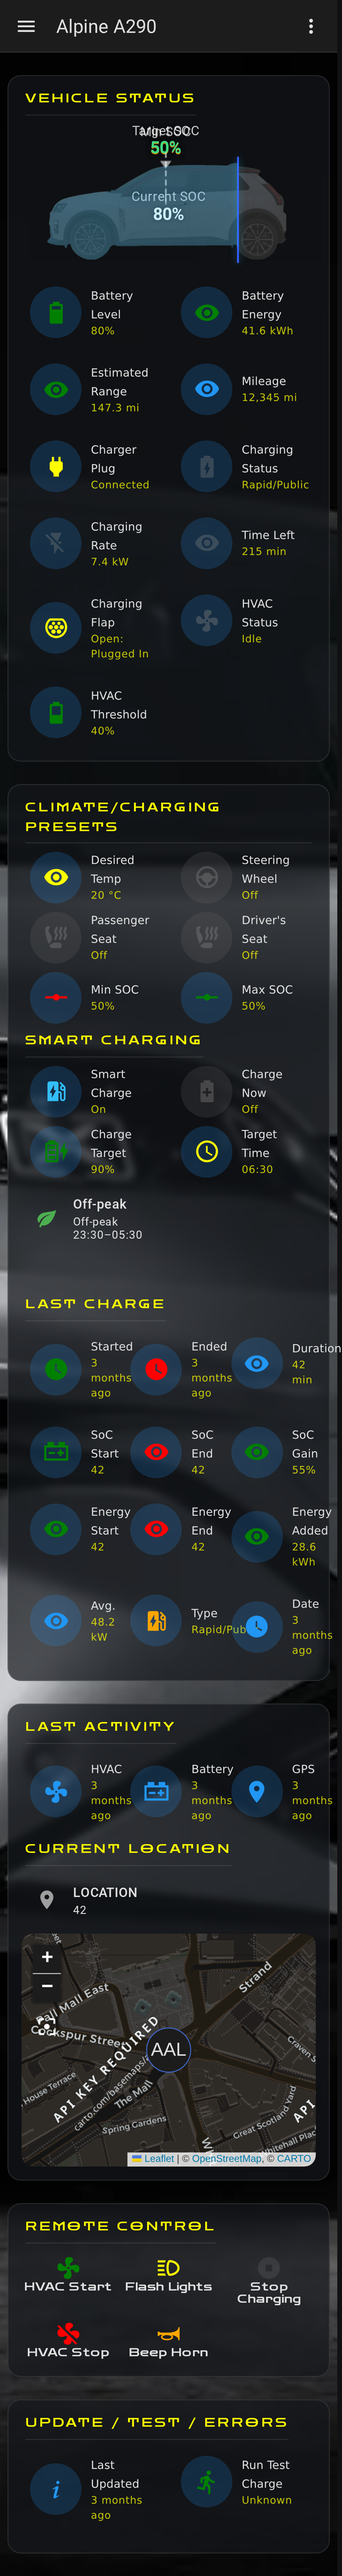
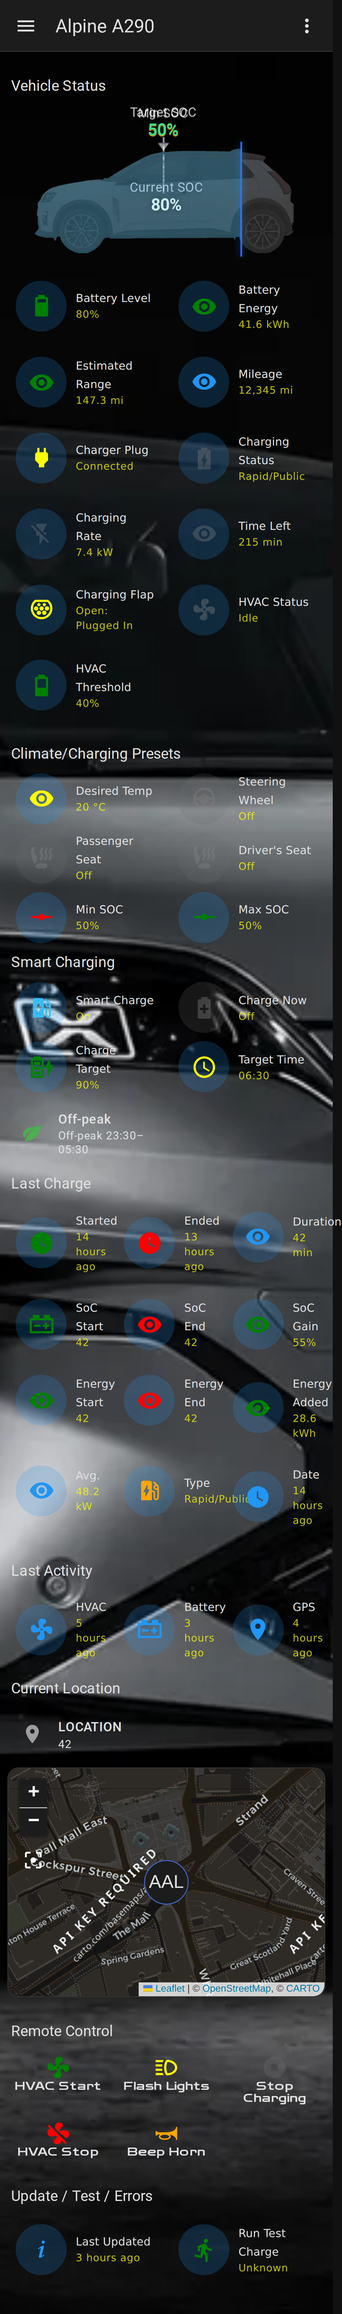
ci: stop CI writing to PR branches, and freeze the render's moving parts (#118)
* ci: stop CI writing to PR branches, and freeze the render's moving parts

Two changes, one goal: no CI job may mutate a branch a human is working on.

RACE REMOVAL

refresh-screenshots committed refreshed PNGs to the PR head via a GitHub App
token. That races the author:

  push -> UI Tests -> render differs -> bot commits -> head moves -> the push
  is rejected non-fast-forward, or the CLEAN verdict just read is invalidated
  and the merge refused

On 2026-09-07 it rejected three pushes, twice mid-merge, and moved the head
five times across the two repos. The [refresh-shots] guard only stopped the
bot re-triggering ITSELF; it did nothing about a human merging that commit and
pushing again.

It now reports drift and attaches the regenerated PNGs as an artifact. It
writes nothing. The App token and its contents:write scope are gone from CI
entirely, which also removes the write credential that previously sat in the
same job as a Pillow decode of PR-controlled images. commit_screenshots.py is
deleted.

DETERMINISM (partial - measured, not assumed)

The screenshots oscillated between two renders all day (143783 <-> 143801)
because the dashboards run five INFINITE CSS animations (pulse, spin,
flap-wiggle, flip180, socFillToTarget). A page that never stops moving cannot
be captured reproducibly and no settling time fixes it. Now frozen with
reduced_motion on the context and animations="disabled" on all three capture
calls.
[…]

diff --git a/ui-tests/seed.py b/ui-tests/seed.py
@@ -13,12 +13,18 @@ import asyncio
 import os
 import re
 import sys
+from datetime import datetime, timedelta, timezone
 
 import aiohttp
 import yaml
 
 HERE = os.path.dirname(os.path.abspath(__file__))
 DASH_DIR_DEFAULT = os.path.join(HERE, "..", "alpine_a290", "dashboards")
+def _ago(**delta):
+    """An ISO timestamp `delta` before now, for entities the frontend renders as relative time."""
+    return (datetime.now(timezone.utc) - timedelta(**delta)).isoformat()
+
+
 DASHBOARDS = {"alpine-standard": "front-end.txt", "alpine-bubble": "front-end-bubble.txt"}
 APP_DIR = os.path.join(HERE, "..", "alpine_a290", "app")
 
@@ -79,11 +85,20 @@ KNOWN = {
     "sensor.alpine_a290_last_charge_duration": ("42", {"unit_of_measurement": "min"}),
     "sensor.alpine_a290_last_charge_soc_recovered": ("55", {"unit_of_measurement": "%"}),
     "sensor.alpine_a290_last_charge_energy_recovered": ("28.6", {"unit_of_measurement": "kWh"}),
-    "sensor.alpine_a290_last_charge_start": ("2026-06-26T18:04:00+00:00", {"device_class": "timestamp"}),
-    "sensor.alpine_a290_last_charge_end": ("2026-06-26T18:46:00+00:00", {"device_class": "timestamp"}),
-    "sensor.alpine_a290_last_updated": ("2026-06-27T09:15:00+00:00", {"device_class": "timestamp"}),
-    "sensor.alpine_a290_hvac_last_activity": ("2026-06-27T08:50:00+00:00", {"device_class": "timestamp"}),
-    "sensor.alpine_a290_gps_last_activity": ("2026-06-27T09:10:00+00:00", {"device_class": "timestamp"}),
+    # Timestamps are seeded RELATIVE to the run, not as fixed dates. A device_class:timestamp
+    # sensor is rendered by mushroom as relative text ("2 months ago"), so a hard-coded date
+    # produces different PIXELS as the wall clock moves past each unit boundary — fine for an
+    # overflow check, fatal for comparing a screenshot against a committed one. Anchoring to
+    # now keeps the rendered text identical on every run ("3 hours ago" is always "3 hours
+    # ago"). Offsets are xx:12, NOT xx:30: half-past is exactly the rounding boundary, so if the
+    # frontend rounds to nearest rather than truncating, a few seconds of drift between
+    # seeding and capture flips "3 hours ago" to "4 hours ago" and changes the pixels. xx:12
+    # reads the same under either rule and leaves ~12 minutes of slack before any boundary.
+    "sensor.alpine_a290_last_charge_start": (_ago(hours=14, minutes=12), {"device_class": "timestamp"}),
+    "sensor.alpine_a290_last_charge_end": (_ago(hours=13, minutes=12), {"device_class": "timestamp"}),
+    "sensor.alpine_a290_last_updated": (_ago(hours=3, minutes=12), {"device_class": "timestamp"}),
+    "sensor.alpine_a290_hvac_last_activity": (_ago(hours=5, minutes=12), {"device_class": "timestamp"}),
+    "sensor.alpine_a290_gps_last_activity": (_ago(hours=4, minutes=12), {"device_class": "timestamp"}),
     # Demo Octopus Intelligent charger entities (Smart Charging card / bubble pop-up).
     "switch.demo_intelligent_smart_charge": ("on", {"icon": "mdi:ev-station"}),
     "switch.demo_intelligent_bump_charge": ("off", {"icon": "mdi:battery-plus-variant"}),

diff --git a/ui-tests/check_overflow.py b/ui-tests/check_overflow.py
@@ -162,7 +162,15 @@ def run():
                 viewport={"width": dev["width"], "height": dev["height"]},
                 device_scale_factor=dev.get("deviceScaleFactor", 2),
                 is_mobile=dev.get("isMobile", True), has_touch=dev.get("hasTouch", True),
-                color_scheme=colour_scheme, user_agent=ua)
+                color_scheme=colour_scheme, user_agent=ua,
+                # The dashboards run FIVE infinite CSS animations (pulse, spin, flap-wiggle,
+                # flip180, socFillToTarget). A page that never stops moving cannot be captured
+                # reproducibly, and no amount of settling time fixes it — every shot samples a
+                # different frame. That, not runner timing, is why the committed screenshots
+                # oscillated between two byte sizes all day (143783 <-> 143801). reduced_motion
+                # asks the page not to start them; screenshot(animations="disabled") below is the
+                # belt-and-braces that freezes anything that ignores the preference.
+                reduced_motion="reduce")
             ctx.add_init_script(init)
             page = ctx.new_page()
             for dash in args.dashboards:
@@ -191,7 +199,7 @@ def run():
                         # Drop HA's startup toasts only AFTER the truncation scan, so removing the
                         # toast node can never perturb the gate's measurement — it only cleans the shot.
                         page.evaluate(JS_DISMISS_TOASTS)
-                        page.screenshot(path=shot, full_page=True)
+                        page.screenshot(path=shot, full_page=True, animations="disabled")
                         break
                     except Exception as err:
                         # A render error here is transient (auto-open context teardown / font-wait
@@ -206,7 +214,7 @@ def run():
                         issues = [{"type": "render-error", "tag": "-", "text": f"{type(err).__name__}: {err}"}]
                         try:
                             page.evaluate(JS_DISMISS_TOASTS)
-                            page.screenshot(path=shot, full_page=True)
+                            page.screenshot(path=shot, full_page=True, animations="disabled")
                         except Exception:
                             pass
                 # The Smart Charging pop-up ("tab") capture is best-effort and ISOLATED from the
@@ -227,7 +235,7 @@ def run():
                         page.wait_for_timeout(800)
                         page.evaluate(JS_DISMISS_TOASTS)
                         pshot = os.path.join(args.out, f"{dash}__smart_charging__{slug}.png")
-                        page.screenshot(path=pshot, full_page=True)
+                        page.screenshot(path=pshot, full_page=True, animations="disabled")
                         issues += _stable_issues(page)
                     except Exception as err:
                         print(f"    pop-up capture skipped ({type(err).__name__}) — not failing the gate")

diff --git a/BACKLOG.md b/BACKLOG.md
@@ -42,6 +42,65 @@ string `None`) alongside every location update so `location_name` is cleared eac
 
 ---
 
+## P2 — UNTESTED: the dashboard render is not reproducible, so screenshots cannot be gated
+
+**Component:** `ui-tests/` (both dashboards) · **Logged:** 2026-09-07
+
+**Marker: treat every committed file in `docs/screenshots/` as UNTESTED.** They are a plausible
+picture of the dashboards, not a verified one, and a diff between two of them proves nothing.
+
+Measured over four full harness runs (identical code, identical seed, minutes apart):
+
+| Pair | bubble differing | standard differing |
+|---|---|---|
+| run 1 vs 2 | 6 / 20 | 4 / 10 |
+| run 3 vs 4 | 6 / 20 | 4 / 10 |
+
+**It is not a bubble-only problem** — the assumption worth killing early. Proportionally the
+*standard* dashboard is worse (40% vs 30%), and the split was identical across both pairs, so
+skipping bubble would not make the remainder trustworthy.
+
+Two causes were found and fixed (v1.24.0+): five infinite CSS animations (`pulse`, `spin`,
+`flap-wiggle`, `flip180`, `socFillToTarget`) meant the page never stopped moving, and hard-coded
+seed timestamps rendered as relative text changed pixels whenever the wall clock crossed a unit
+boundary. Both are gone. **Neither moved the 20/30 number**, which is what says the remaining
+cause is separate.
+
+**An attempted fix made it worse and was reverted — do not retry it as written.** Waiting for
+stable scroll dimensions + card count + image completion instead of a fixed sleep is the obvious
+next idea. A blank page is *stable*: the condition is satisfied instantly and captures an empty
+dashboard. `alpine-bubble__pixel_8.png` had been byte-identical at 169,749 bytes across two runs;
+with the wait it captured at 17,255 bytes at the same dimensions. Any retry needs a
+*completeness* condition (a known-good card count), not just a stability one.
+
+**Consequence:** the `Screenshot drift gate` that the `gotoad` twin runs as a required check
+cannot be adopted here. A byte-exact gate over this would be permanently red. That is why
+`refresh-screenshots` reports drift and attaches an artifact rather than failing, and why it no
+longer commits.
+
+**Three distinct failure modes, measured by pixel-diffing run 3 against run 4** — worth knowing
+before assuming a single cause:
+
+| Shot | Pixels changed | Reading |
+|---|---|---|
+| `bubble__galaxy_s23` | 477 (0.02%), one 96x115 box | one icon — sub-pixel or an unfrozen animation frame |
+| `standard__android_narrow_bound` | page size differs (734x5002 vs 724x5454) | missing cards |
+| `bubble__pixel_7a` | 95% of the page | an entirely different render |
+
+**Is it the seeded data changing over time?** Largely no. The time-varying data (the Last
+Activity timestamps) appears on every device's dashboard, so if that were the cause all 15 shots
+per dashboard would differ; only 3 do so consistently. The two large modes are missing or
+different content, which data cannot explain. One related bug WAS found and fixed by asking the
+question: the seed offsets sat at xx:30, exactly the rounding boundary, so a few seconds of drift
+between seeding and capture could flip "3 hours ago" to "4 hours ago". Now xx:12.
+
+**Next investigation, not yet done:** the differing shots are not the same ones each pair, and
+some collapse to near-empty at correct dimensions, which points at cards painting after capture
+rather than at layout timing. Instrument one device across ten runs and diff the DOM, rather
+than guessing at another wait.
+
+---
+
 ## P1 — A wedged poll loop is invisible: LWT catches process death, not a stalled producer
 
 **Component:** `alpine_a290` + `renault-mqtt`

diff --git a/ui-tests/README.md b/ui-tests/README.md
@@ -41,14 +41,29 @@ PYTHON=/path/to/venv/bin/python bash ui-tests/run.sh
 Screenshots land in `ui-tests/screenshots/` (git-ignored; uploaded as a CI artifact). In CI
 this is the **UI Tests** workflow, which runs whenever the dashboards or this harness change.
 
-## Docs-screenshot auto-refresh
+## Docs-screenshot drift report
 
 On a PR, a trusted `workflow_run` companion (`.github/workflows/refresh-screenshots.yaml`)
-downloads the rendered artifact and, if it differs from the committed docs shots, commits the
-refreshed PNGs back to the PR branch via the GraphQL `createCommitOnBranch` mutation (see
-`commit_screenshots.py`). That mutation web-flow-signs the commit (**Verified**), so it satisfies
-the branch's "require signed commits" rule with no signing key in CI. The write credential is a
-short-lived **GitHub App installation token** minted per-run (App `a290-r5-screenshot-committer`,
-`Contents: write` only) — no long-lived PAT to renew. Because the App is a separate identity, its
-push still re-triggers the PR's required checks; a `[refresh-shots]` message guard stops the
-re-triggered run from committing again.
+downloads the rendered artifact, resizes the phone shots, and reports whether they differ from
+the committed `docs/screenshots/`. If they do, the regenerated PNGs are attached to the run as
+the **regenerated-screenshots** artifact; download and commit them yourself if the change is
+real. It writes a job summary and nothing else.
+
+**It does not commit, and it never fails the build.** Both are deliberate.
+
+It used to commit refreshed PNGs to the PR head via a GitHub App token, and that raced with
+whoever was working on the PR: push → render differs → bot commits → head moves → your push is
+rejected non-fast-forward, or the `CLEAN` verdict you just read is invalidated and the merge
+refused. On 2026-09-07 that rejected three pushes, twice mid-merge, and moved the head five
+times across the two repos. The `[refresh-shots]` guard only stopped the bot re-triggering
+*itself*; it did nothing about a human merging that commit and pushing again. CI writing to a
+branch a human is working on **is** the race, so CI no longer writes to it — the App token and
+its `Contents: write` scope are gone from the workflow entirely.
+
+It reports rather than failing because **the render is not yet reproducible**. Two consecutive
+runs of identical code against the same seed produced 10 of 30 screenshots differing, two at
+different page *dimensions* (724x5454 vs 734x5002) — cards still land after capture, so
+`full_page` grabs a different-height document. Freezing the CSS animations
+(`animations="disabled"` plus `reduced_motion`) and anchoring the seeded timestamps to run time
+fixed the fast oscillation; the remaining layout settling must be solved before this can become
+a required drift gate like the one in `gotoad`.

diff --git a/alpine_a290/DOCS.md b/alpine_a290/DOCS.md
@@ -216,10 +216,10 @@ used for preconditioning — not a control): `…_charge_schedule_mode`,
 *unavailable* when no schedule is set.
 
 **Charge limits** are exposed as two writable sliders (set via `set_battery_soc`, published
-only when the car supports the `soc-levels` endpoint): `number.alpine_a290_soc_min_target`
-(15–45 %) and `number.alpine_a290_soc_max_target` (55–100 %). These are **`number.` sliders,
+only when the car supports the `soc-levels` endpoint): `number.alpine_a290_minimum_soc`
+(15–45 %) and `number.alpine_a290_charge_target_soc` (55–100 %). These are **`number.` sliders,
 not `sensor.`s** — if you upgraded from an early version that published them as sensors, delete
-the leftover `sensor.alpine_a290_soc_*_target` entities HA shows as *unavailable* (Settings →
+the leftover `sensor.alpine_a290_soc_*` entities HA shows as *unavailable* (Settings →
 Devices & Services → Entities → filter *Unavailable*).
 
 ### Control buttons
